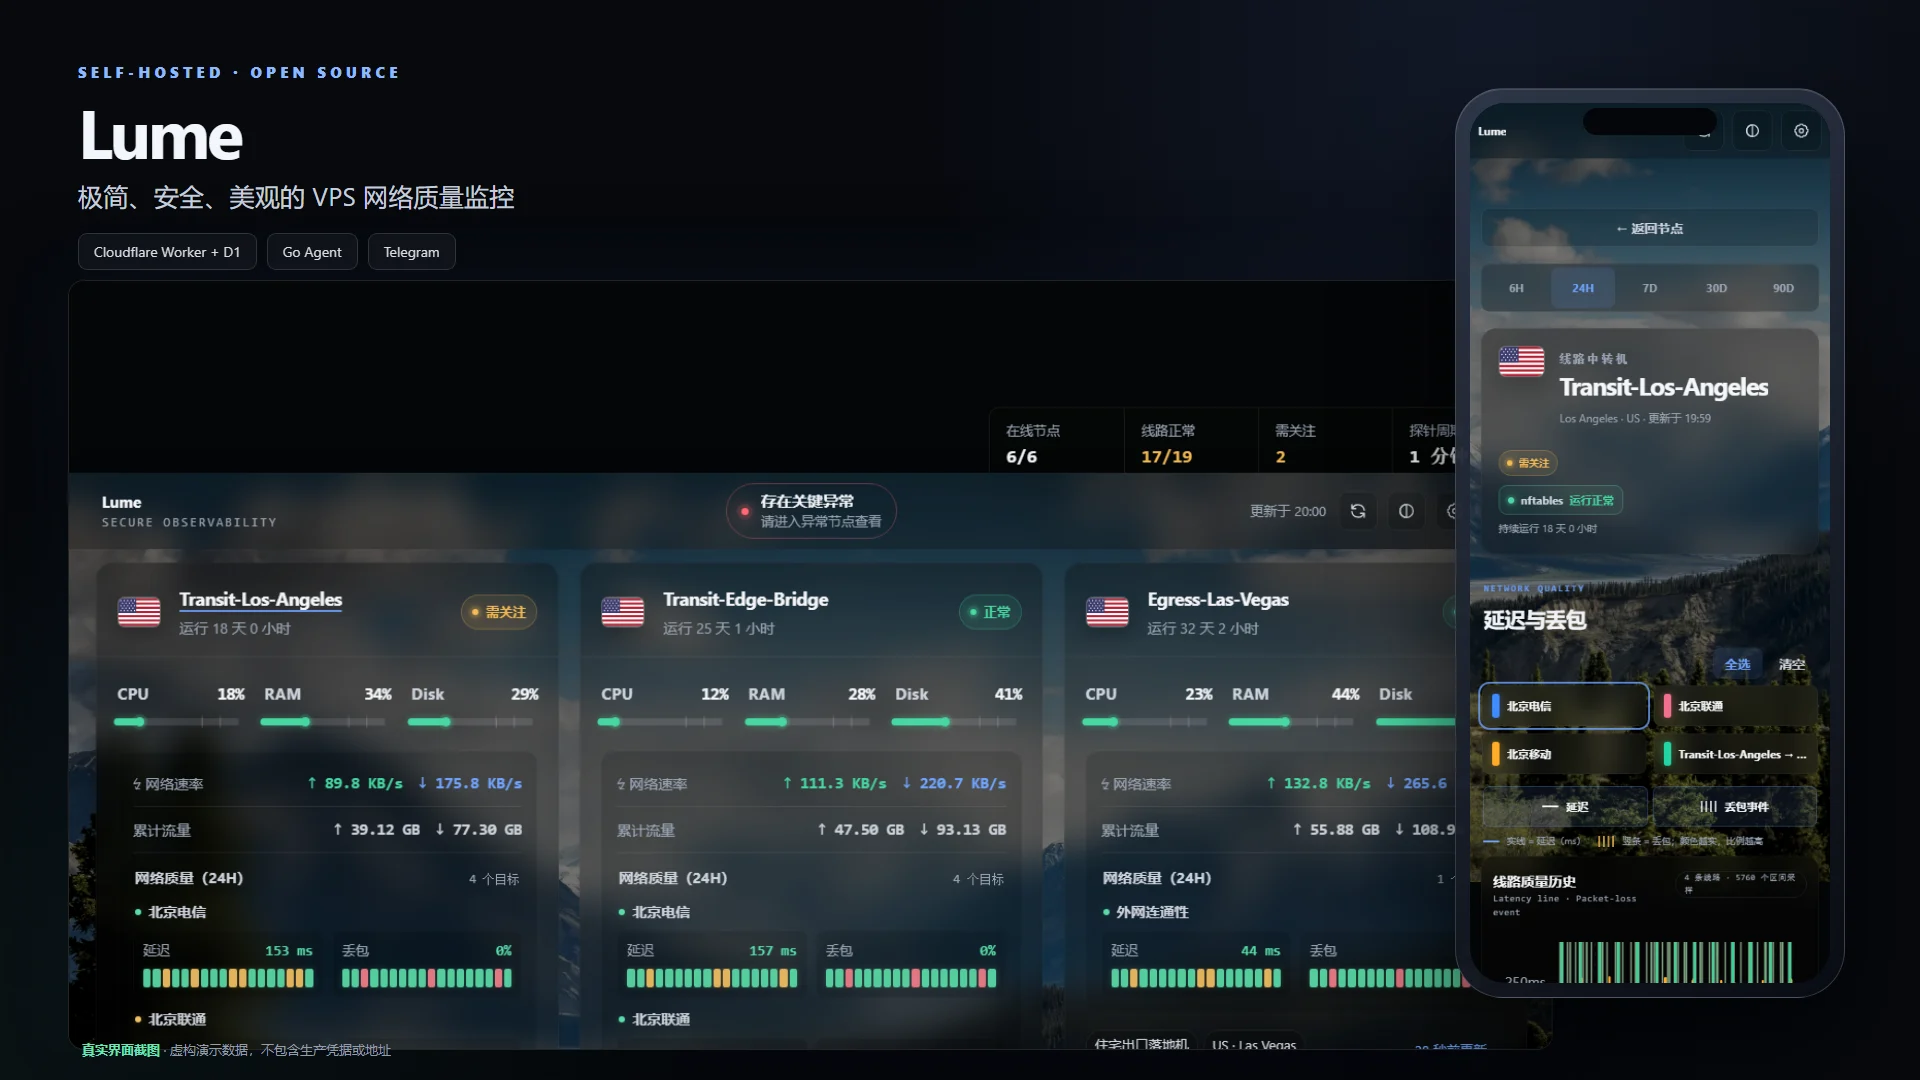
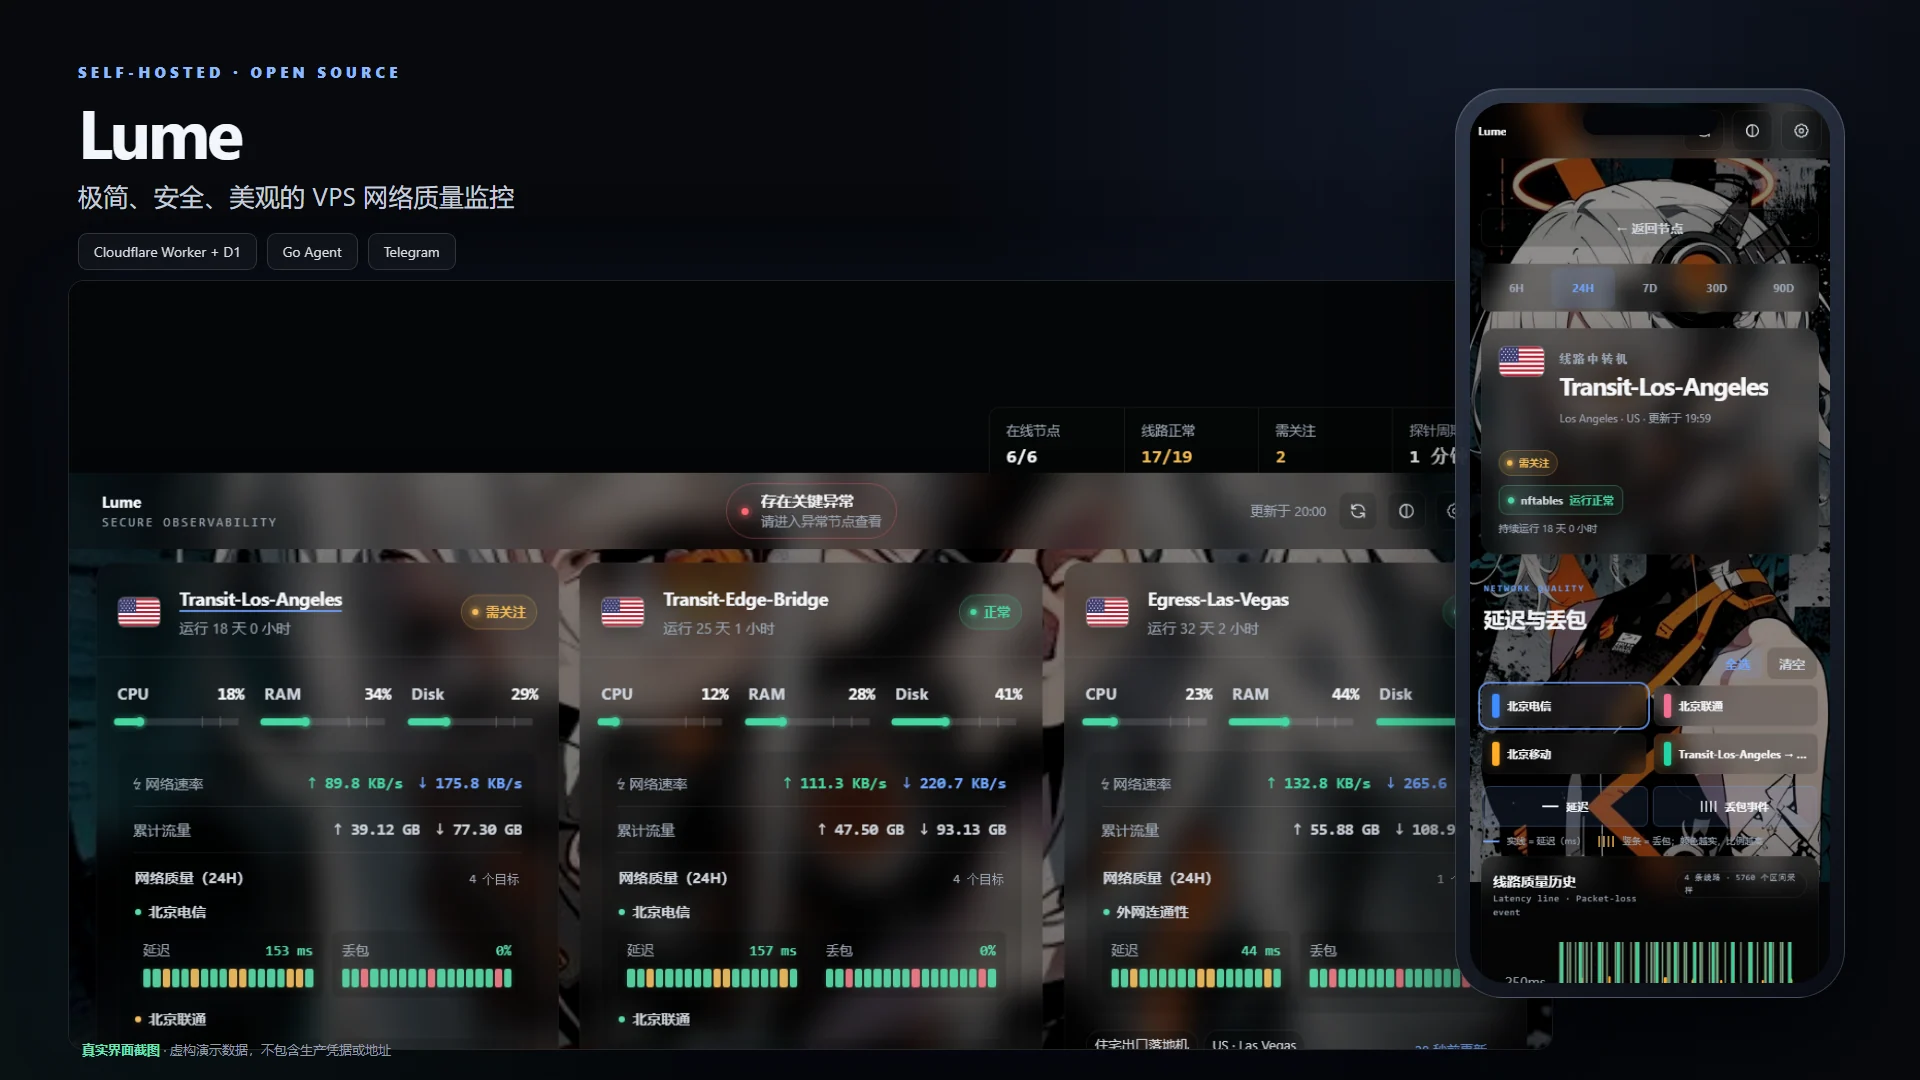
style(dashboard): use orange halo background

diff --git a/worker/public/dashboard/styles.css b/worker/public/dashboard/styles.css
@@ -73,8 +73,8 @@ html[data-theme="light"] {
   --green: #118a64;
   --amber: #c77c12;
   --red: #d84352;
-  --scene-filter: brightness(128%) contrast(80%) saturate(78%);
-  --scene-scrim: rgba(239, 245, 251, 0.06);
+  --scene-filter: brightness(112%) contrast(58%) saturate(48%);
+  --scene-scrim: rgba(239, 245, 251, 0.22);
   --glass-panel-bg: rgba(255, 255, 255, 0.035);
   --glass-card-bg: rgba(255, 255, 255, 0.03);
   --glass-control-bg: rgba(255, 255, 255, 0.035);
@@ -136,7 +136,7 @@ code { font-family: var(--mono); }
   z-index: 0;
   overflow: hidden;
   background-color: #07101b;
-  background-image: url("/dashboard/background-lume.webp?v=kalenemsley");
+  background-image: url("/dashboard/background-lume.webp?v=orange-halo");
   background-position: center;
   background-size: cover;
   filter: var(--scene-filter);
@@ -177,7 +177,7 @@ code { font-family: var(--mono); }
 html[data-theme="light"] .scene-glow-one { background: radial-gradient(circle, rgba(67, 126, 225, 0.2), transparent 68%); }
 html[data-theme="light"] .scene-glow-two { background: radial-gradient(circle, rgba(133, 95, 220, 0.14), transparent 70%); }
 html[data-theme="light"] .scene-grid { opacity: 0.12; }
-html[data-theme="light"] .scene { background-color: #dfe8f2; background-image: url("/dashboard/background-lume.webp?v=kalenemsley"); }
+html[data-theme="light"] .scene { background-color: #dfe8f2; background-image: url("/dashboard/background-lume.webp?v=orange-halo"); }
 
 .glass-panel {
   position: relative;

diff --git a/THIRD_PARTY_NOTICES.md b/THIRD_PARTY_NOTICES.md
@@ -12,15 +12,12 @@ bundled with this project.
 - Emerald Theme for CF Server Monitor — Copyright (c) 2026 Tokinx, MIT License: https://github.com/Tokinx/cf-server-monitor-theme-emerald
 - CF Server Monitor — interaction and chart-structure reference only; no source code is copied or bundled: https://github.com/huilang-me/CF-Server-Monitor
 
-## Dashboard background photograph
+## Dashboard background artwork
 
-`worker/public/dashboard/background-lume.webp` is an optimized derivative of
-photograph `Bkci_8qcdvQ` by Kalen Emsley (`@kalenemsley`) from Unsplash, used under
-the Unsplash License.
-
-- Photograph: https://unsplash.com/photos/Bkci_8qcdvQ
-- Photographer: https://unsplash.com/@kalenemsley
-- License: https://unsplash.com/license
+`worker/public/dashboard/background-lume.webp` is an optimized derivative of a
+user-supplied image named `Unknown.jpeg`. The source file contains no authorship
+or license metadata. It is not covered by this project's MIT License; downstream
+redistributors must independently confirm that they have the necessary rights.
 
 ## uPlot v1.6.32
 
